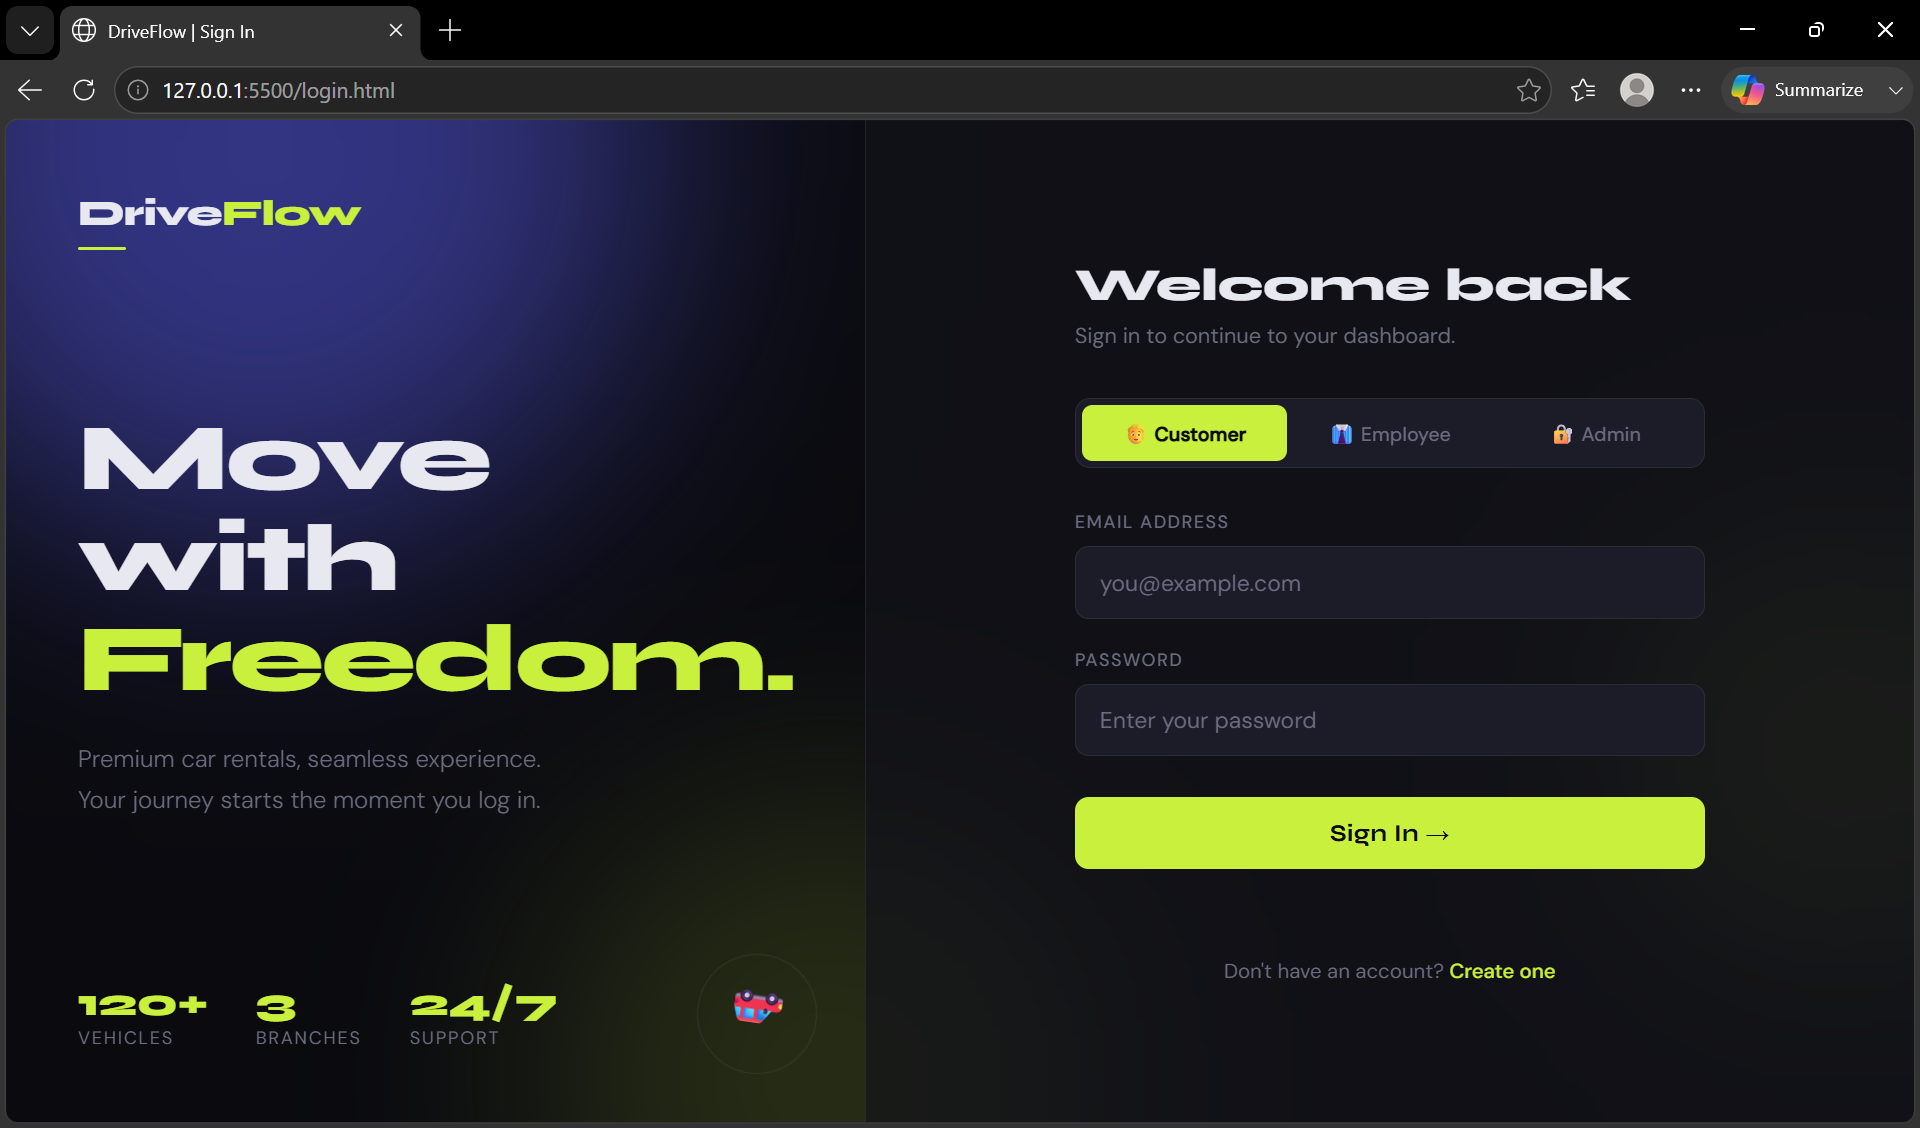
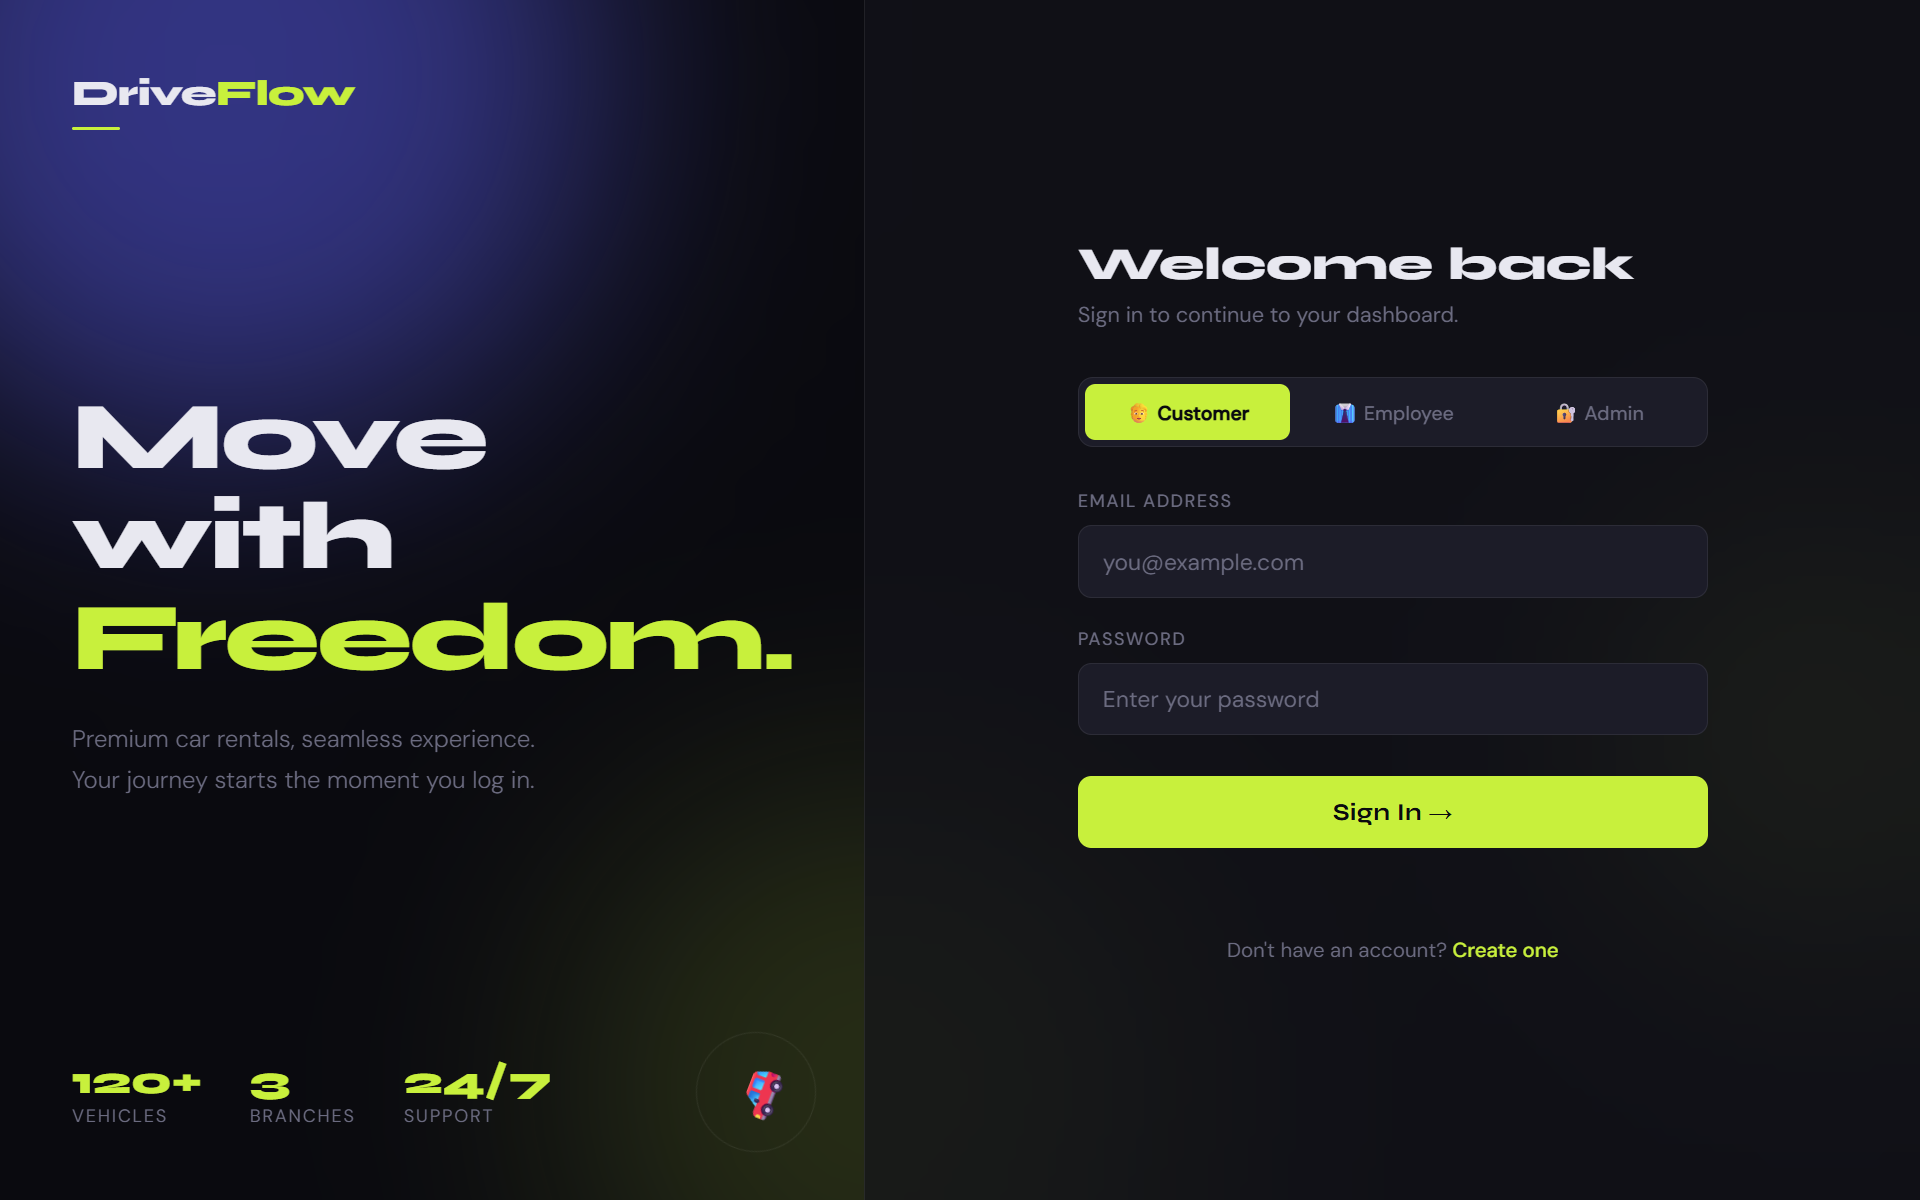
add readme

diff --git a/README.md b/README.md
@@ -234,6 +234,6 @@ nodemon server.js
 
 ## 👥 Team
 
-- Syeda Neamah
-- Pareena Kumari
-- Aila Naeem
+- [Neamah Khawar](https://github.com/neamah-k)
+- [Pareena Kumari](https://github.com/pareena26)
+- [Aila Naeem](https://github.com/ailaa159)